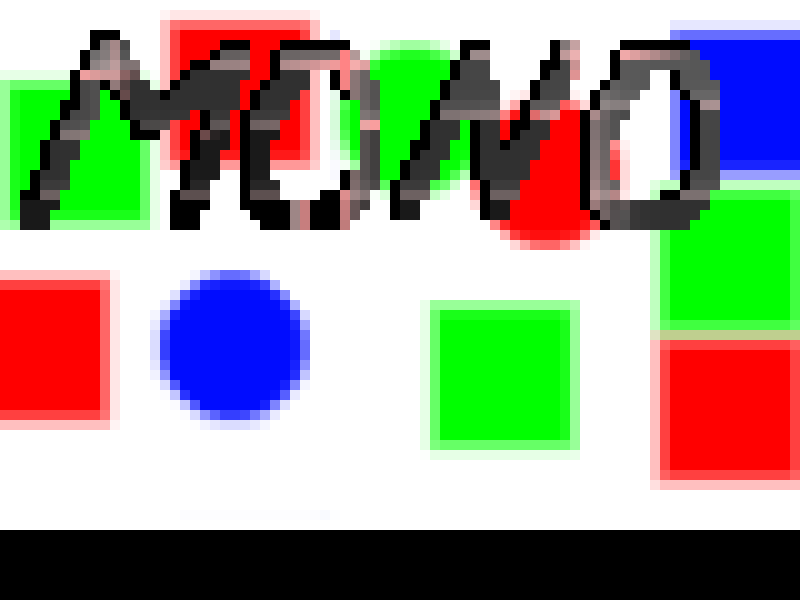
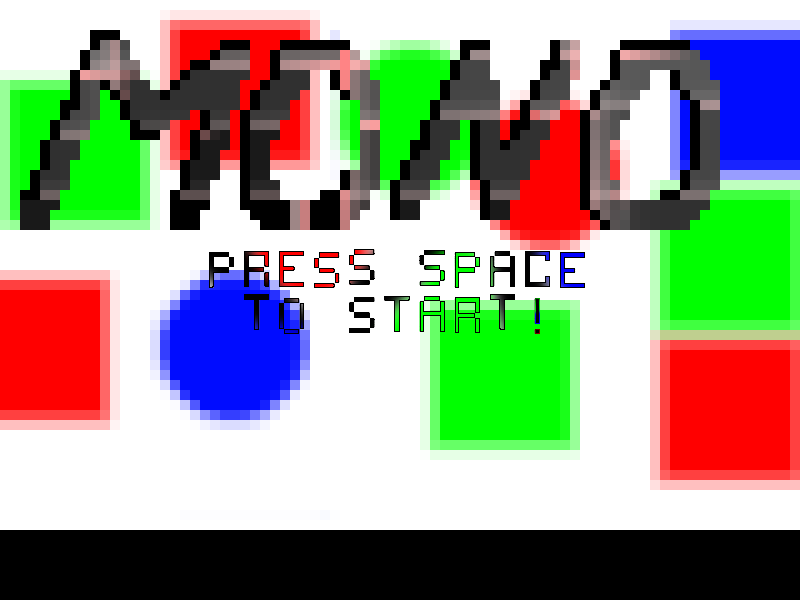
Started on title screen, instructions

Changed region(s): [[0.25, 0.39, 0.75, 0.57]]

diff --git a/MONO/MyWorld.java b/MONO/MyWorld.java
@@ -11,23 +11,39 @@ public class MyWorld extends World
     
     Character char1 = new Character();
     titleCharacter titleChar = new titleCharacter();
-    /**
-     * 
-     * Constructor for objects of class MyWorld.
-     * 
-     */
+    private int pastTitle = 1;
     public MyWorld()
     {    
         super(800, 600, 1); 
         title();
     }
     
+    public void act(){
+        if ("space".equals(Greenfoot.getKey())){
+            switch (pastTitle) {
+                case 1: instructions();
+                case 2: level1();
+            }
+        }
+        
+    }
+    
     public void title(){
         setBackground("title.png");
-        addObject(titleChar, 10, 510);
+        addObject(new BluePlatform(900, 50), 400, 560);
+        hideBluePlatform();
+        addObject(titleChar, 10, 500);
+    }
+    
+    public void instructions(){
+        removeObject(titleChar);
+        pastTitle = 2;
+        setBackground("instructions.png");
     }
     
     public void level1(){
+        pastTitle = 3;
+        setBackground("bricks3.jpg");
         addObject(char1, 10, 0);
         addObject(new blueChanger("BLUE"), 25, 100);
         addObject(new blueChanger("BLUE"), 100, 410);

diff --git a/MONO/titleCharacter.java b/MONO/titleCharacter.java
@@ -12,6 +12,7 @@ public class titleCharacter extends Actor
     private Class color = BluePlatform.class;
     private String strColor = "Blue";
     private int animationCount = 0;
+    private int jumpCount = 0;
     private GreenfootImage rboy1 = new GreenfootImage("rboy1.png");
     private GreenfootImage rboy2 = new GreenfootImage("rboy2.png");
     private GreenfootImage rboystanding = new GreenfootImage("rboystanding.png");
@@ -26,17 +27,24 @@ public class titleCharacter extends Actor
     public void act() 
     {
         animationCount++;
+        jumpCount++;
         rightAnimation();
         move(5);
         onRight();
+        checkFall();
+        if(jumpCount == 30 || jumpCount == 120){
+            vSpeed = -18;
+            setLocation(getX(), getY()+vSpeed);
+        }
+        else if(jumpCount >= 200){
+            jumpCount = 0;
+        }
     }
     
-   
-    
-    
+
     public void onRight(){
         if (getX() >= 790){
-            setLocation(0, 510);
+            setLocation(0, getY());
         }
     }
     
